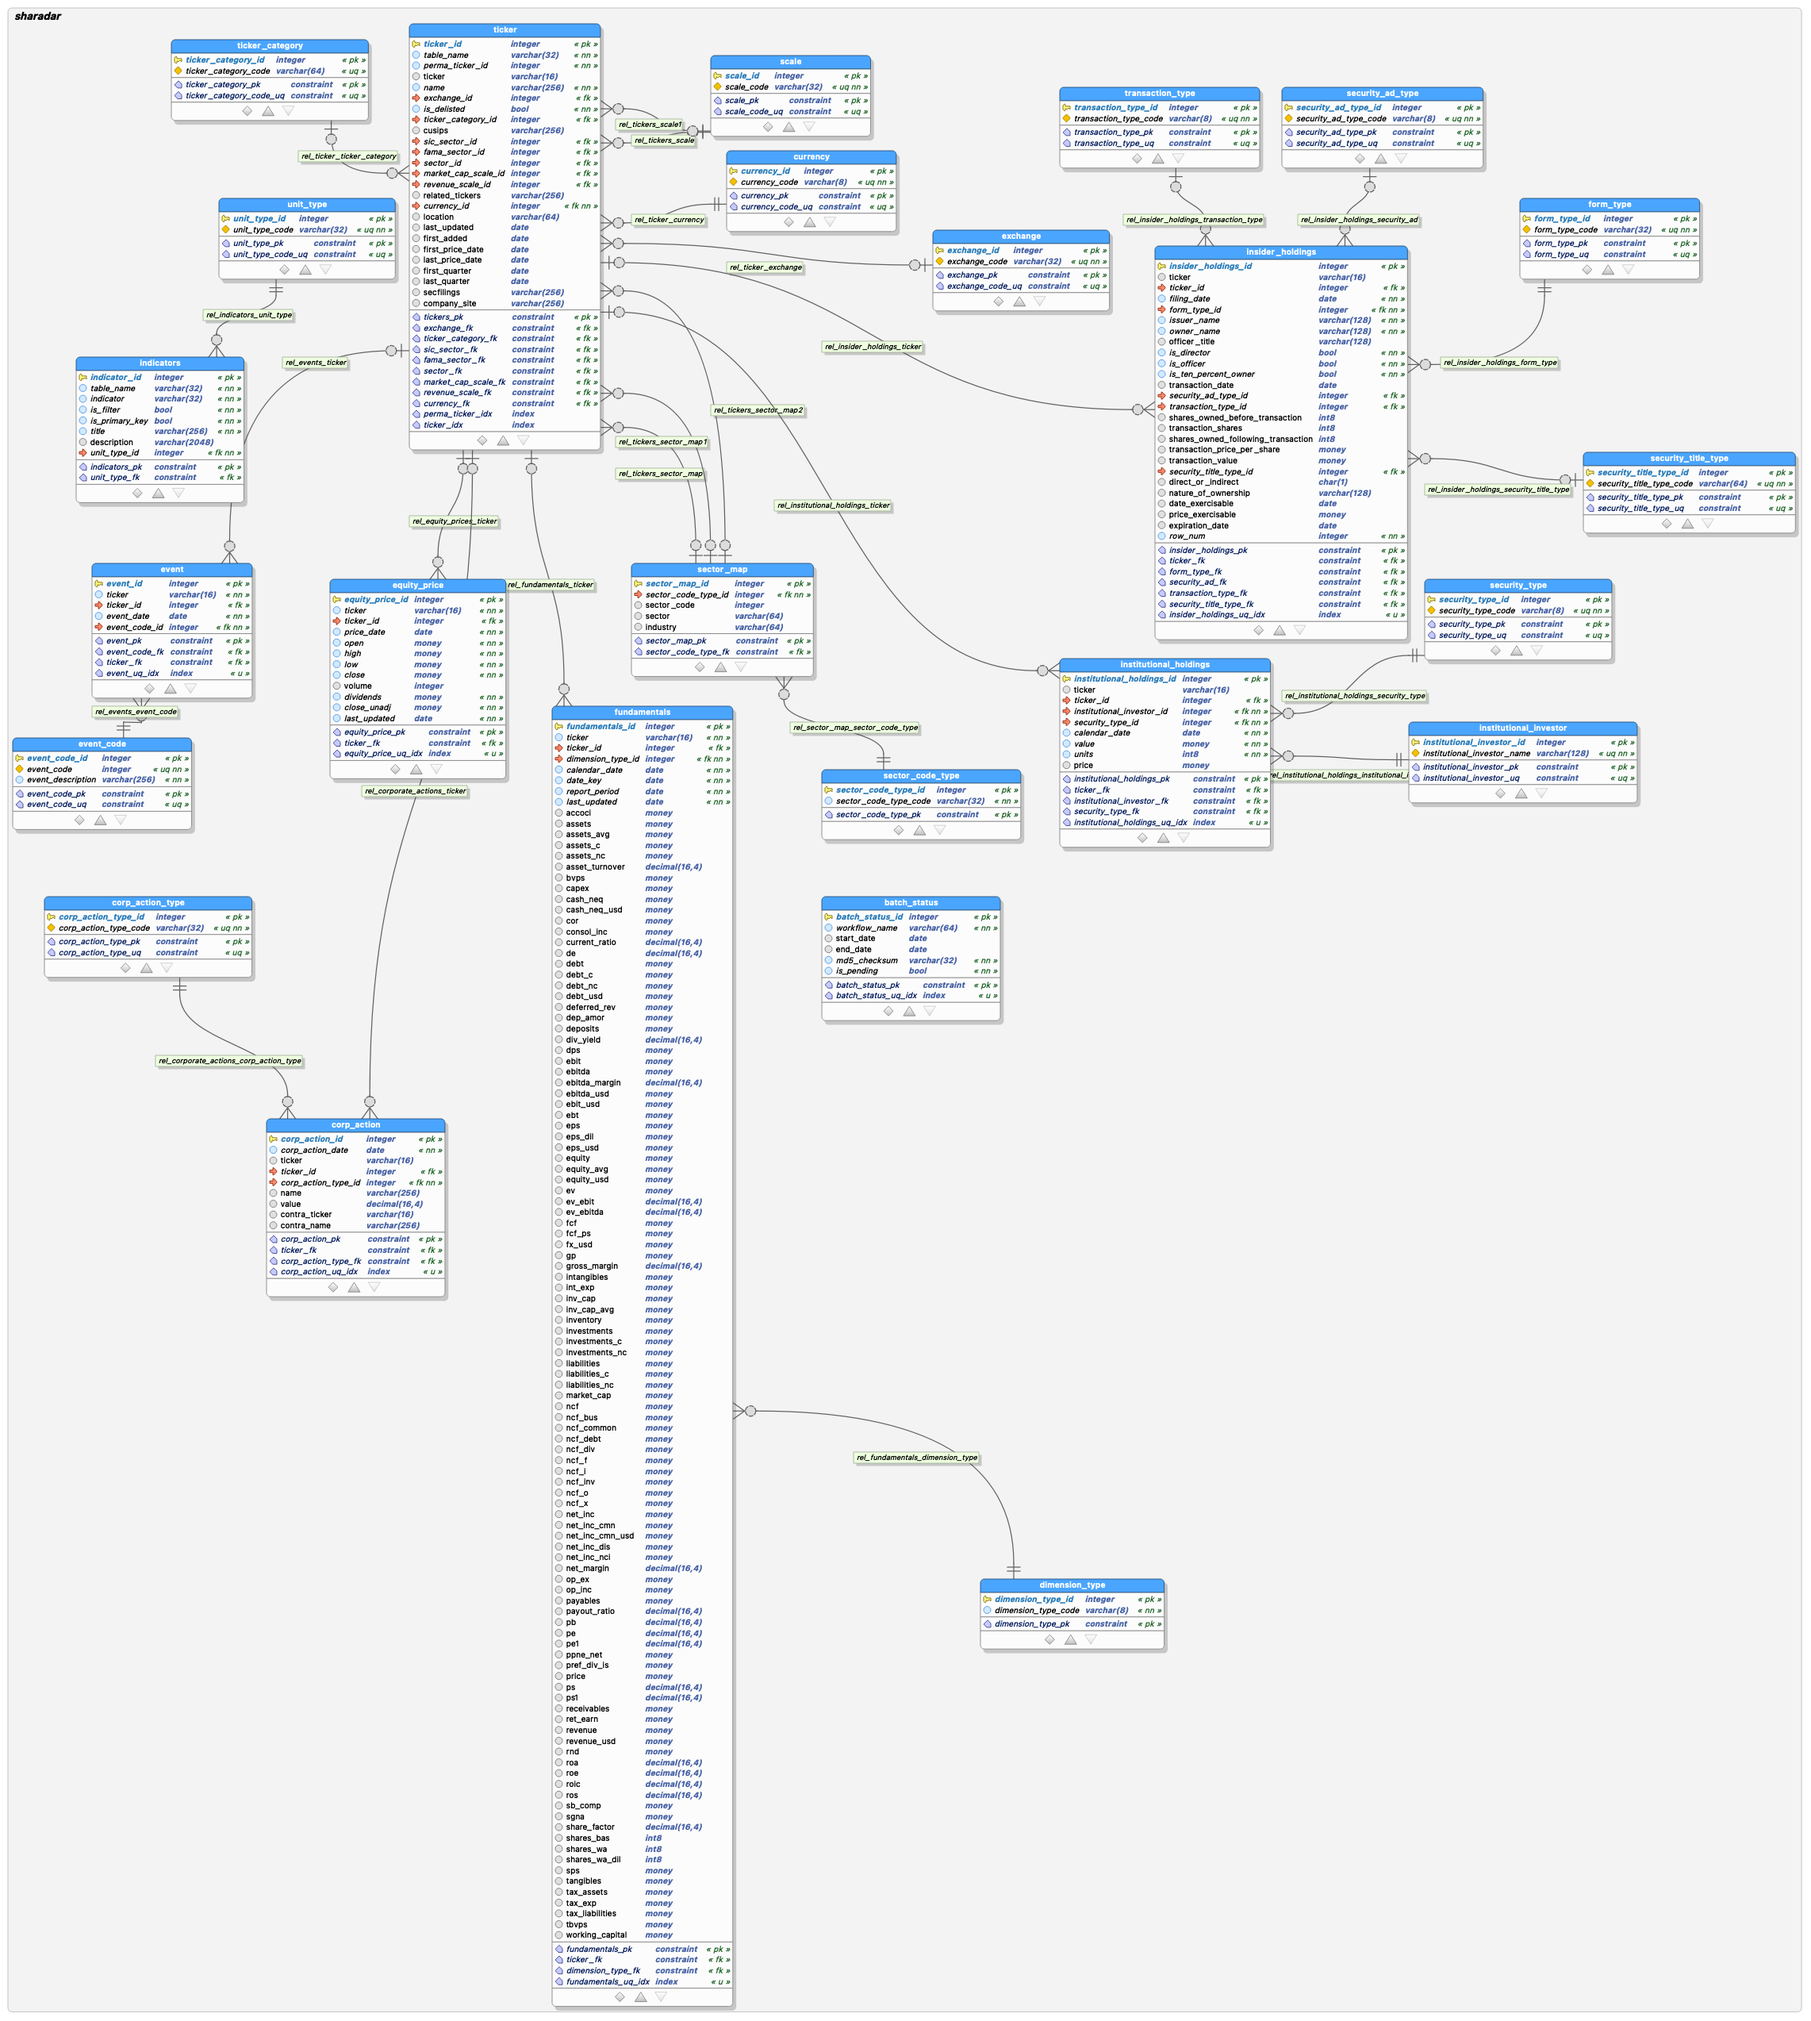
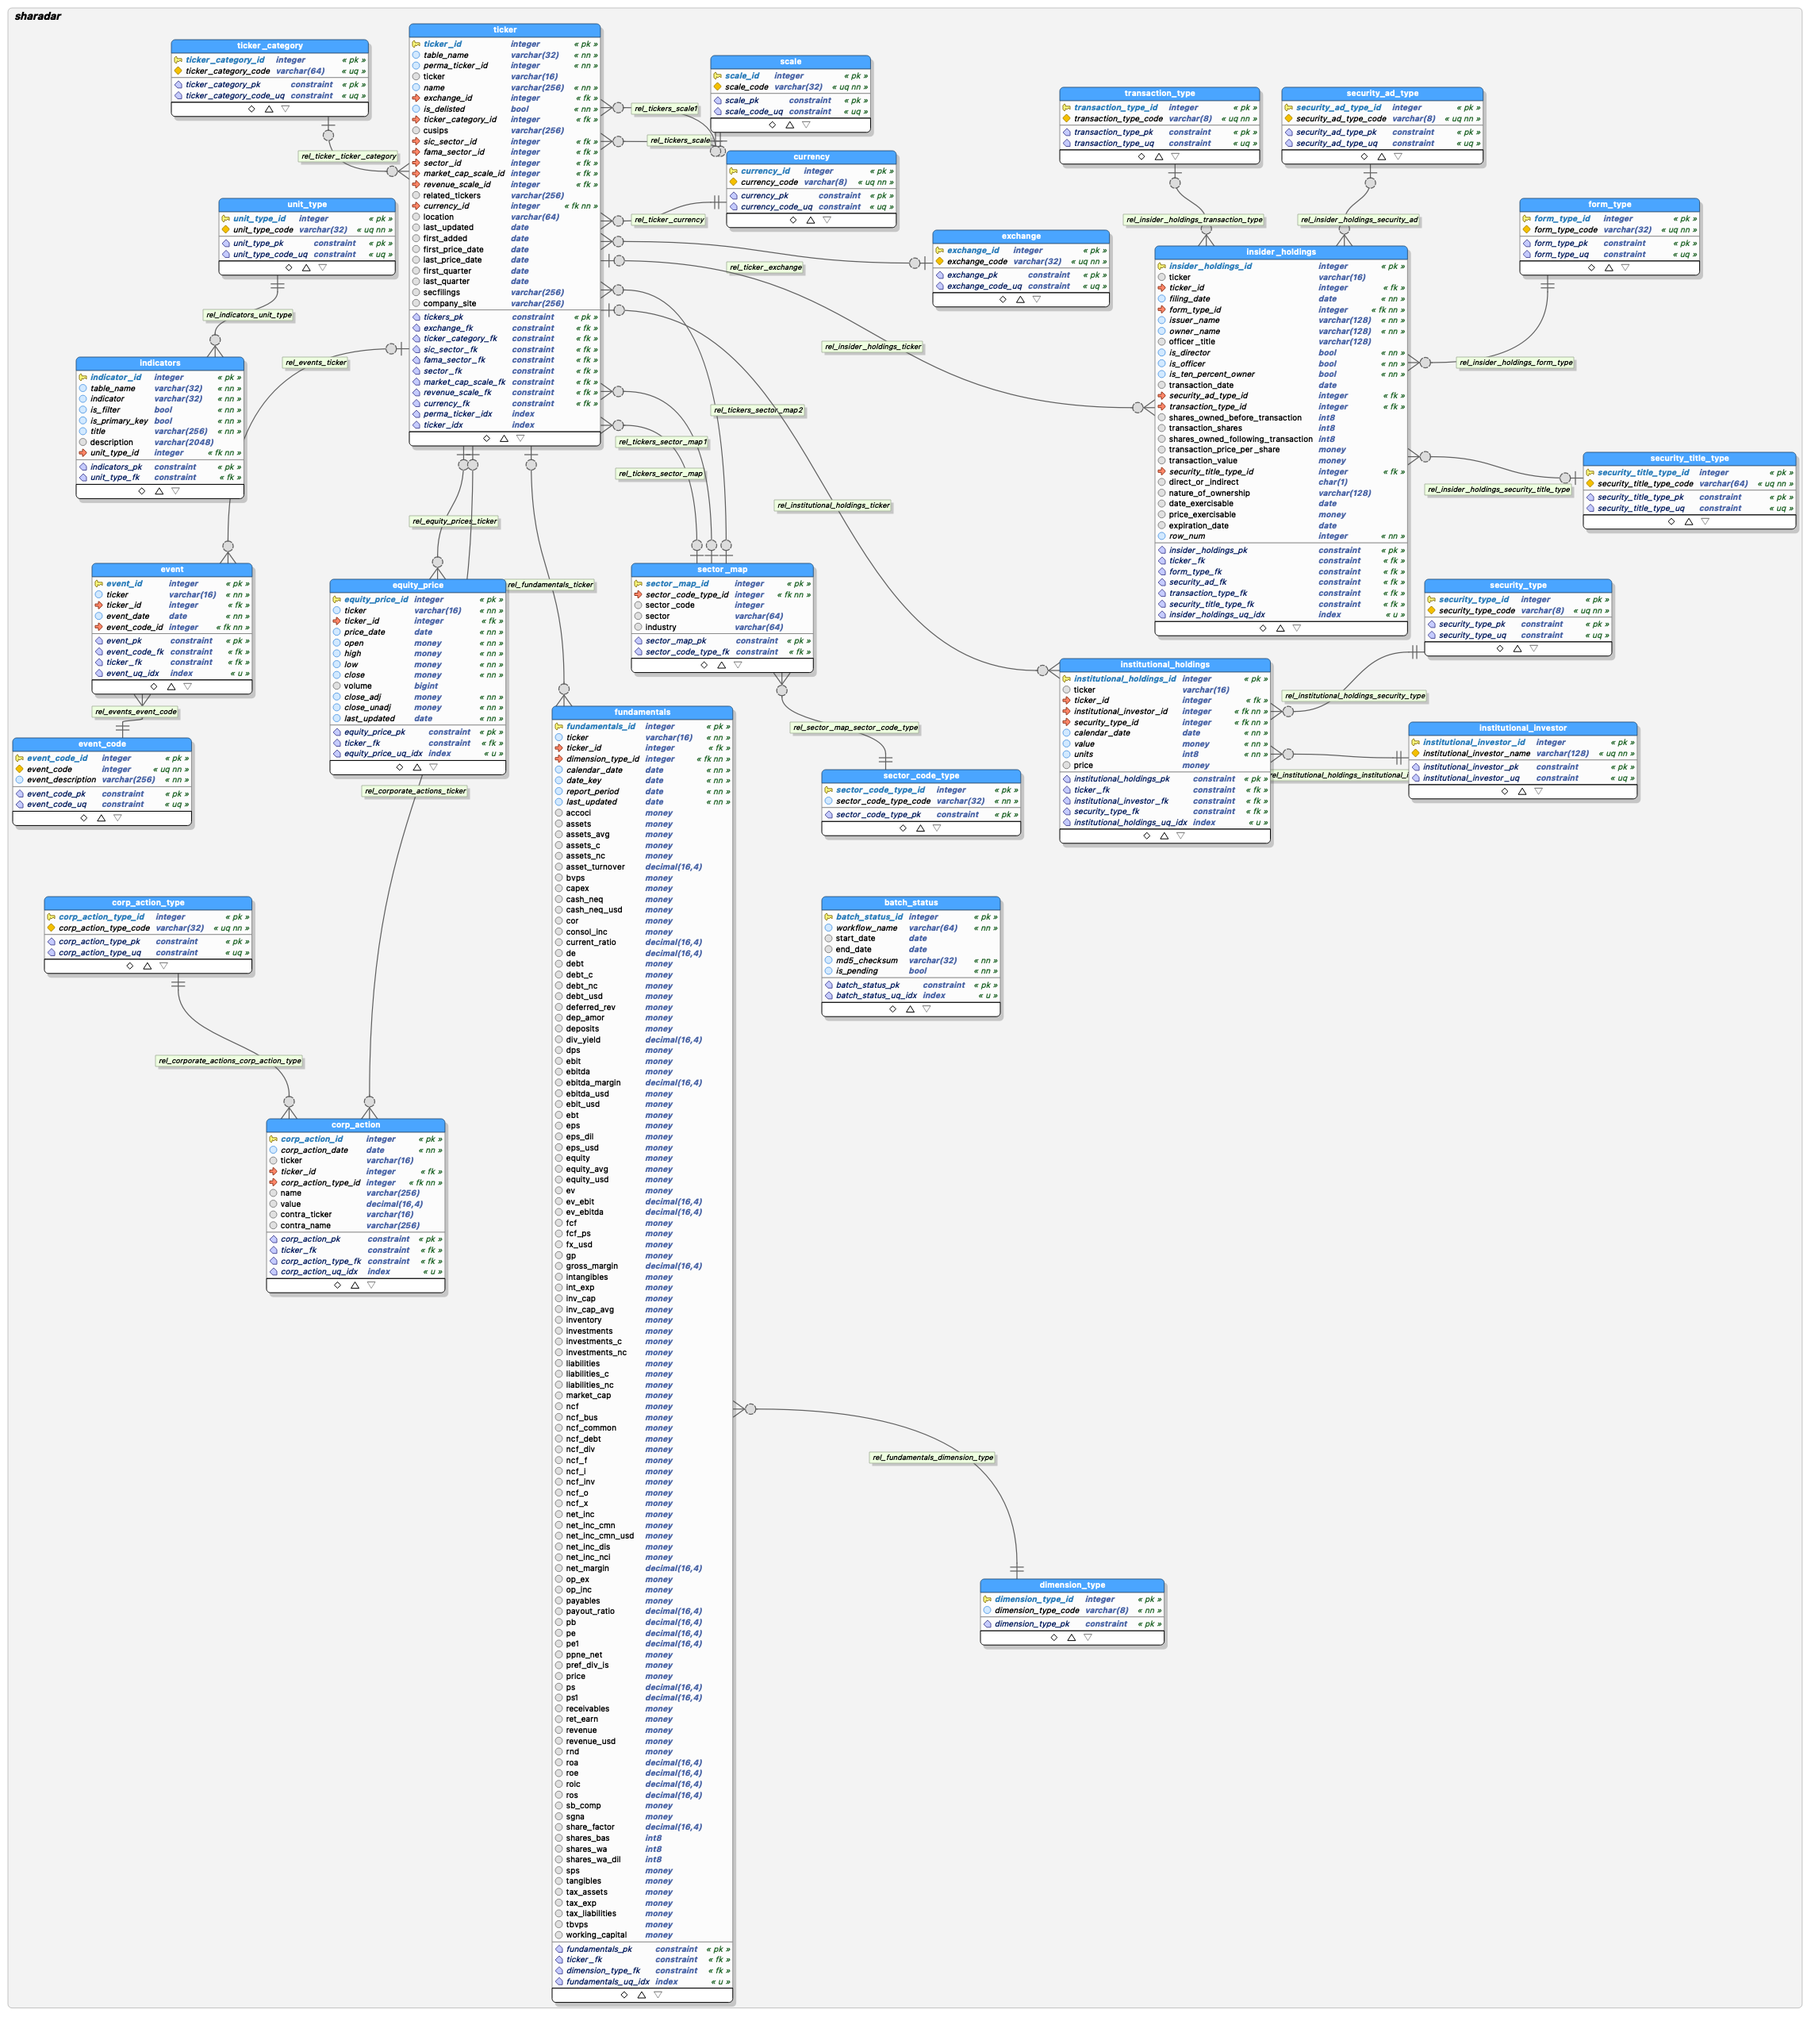
Fix bugs in Sharadar mappings and upgrade to latest Shardar schema
AB#107

diff --git a/src/serenity/data/batch/load_sharadar_prices.py b/src/serenity/data/batch/load_sharadar_prices.py
@@ -29,7 +29,7 @@ class LoadEquityPricesTask(LoadSharadarTableTask):
         low_px = clean_price(row['low'])
         close_px = clean_price(row['close'])
         volume = clean_nulls(row['volume'])
-        dividends = row['dividends']
+        close_adj = row['closeadj']
         close_unadj = row['closeunadj']
         last_updated = row['lastupdated']
 
@@ -38,7 +38,7 @@ class LoadEquityPricesTask(LoadSharadarTableTask):
         if equity_price is None:
             equity_price = EquityPrice(ticker_code=ticker_code, ticker=ticker, date=date, open_px=open_px,
                                        high_px=high_px, low_px=low_px, close_px=close_px, volume=volume,
-                                       dividends=dividends, close_unadj=close_unadj, last_updated=last_updated)
+                                       close_adj=close_adj, close_unadj=close_unadj, last_updated=last_updated)
         else:
             equity_price.ticker = ticker
             equity_price.open_px = open_px
@@ -46,7 +46,7 @@ class LoadEquityPricesTask(LoadSharadarTableTask):
             equity_price.low_px = low_px
             equity_price.close_px = close_px
             equity_price.volume = volume
-            equity_price.dividends = dividends
+            equity_price.close_adj = close_adj
             equity_price.close_unadj = close_unadj
             equity_price.last_updated = last_updated
 

diff --git a/src/serenity/data/sharadar_api.py b/src/serenity/data/sharadar_api.py
@@ -8,8 +8,7 @@ from money import Money
 
 from sqlalchemy import create_engine, TypeDecorator, Column, Integer, String, Date, Boolean
 from sqlalchemy.dialects.postgresql import MONEY
-from sqlalchemy.ext.declarative import declarative_base
-from sqlalchemy.orm import sessionmaker, Session
+from sqlalchemy.orm import declarative_base, sessionmaker, Session
 
 Base = declarative_base()
 
@@ -18,9 +17,11 @@ def create_sharadar_session(hostname: str = os.getenv('TIMESCALEDB_NODEPORT_SERV
                             port: int = os.getenv('TIMESCALEDB_NODEPORT_SERVICE_PORT', '5432'),
                             username: str = os.getenv('POSTGRES_SHARADAR_USER', 'sharadar'),
                             password: str = os.getenv('POSTGRES_SHARADAR_PASSWORD', None)) -> Session:
-    engine = create_engine(f'postgresql://{username}:{password}@{hostname}:{port}/')
+    engine = create_engine(f'postgresql://{username}:{password}@{hostname}:{port}/sharadar')
     session = sessionmaker(bind=engine)
-    return session()
+    sess_instance = session()
+    sess_instance.execute("SET search_path TO sharadar")
+    return sess_instance
 
 
 def init_quandl(quandl_api_key: str = os.getenv('QUANDL_API_KEY')):

diff --git a/src/serenity/data/sharadar_holdings.py b/src/serenity/data/sharadar_holdings.py
@@ -149,7 +149,7 @@ class InstitutionalHoldings(Base):
     institutional_holdings_id = Column(Integer, primary_key=True)
     ticker_code = Column(String(16), name='ticker')
     ticker_id = Column(Integer, ForeignKey('ticker.ticker_id'))
-    ticker = relationship('serenity.equity.sharadar_refdata.Ticker', lazy='joined')
+    ticker = relationship('Ticker', lazy='joined')
     institutional_investor_id = Column(Integer, ForeignKey('institutional_investor.institutional_investor_id'))
     investor = relationship('InstitutionalInvestor', lazy='joined')
     security_type_id = Column(Integer, ForeignKey('security_type.security_type_id'))
@@ -175,7 +175,7 @@ class InsiderHoldings(Base):
     insider_holdings_id = Column(Integer, primary_key=True)
     ticker_code = Column(String(16), name='ticker')
     ticker_id = Column(Integer, ForeignKey('ticker.ticker_id'))
-    ticker = relationship('serenity.equity.sharadar_refdata.Ticker', lazy='joined')
+    ticker = relationship('Ticker', lazy='joined')
     filing_date = Column(Date)
     form_type_id = Column(Integer, ForeignKey('form_type.form_type_id'))
     form_type = relationship('FormType', lazy='joined')

diff --git a/src/serenity/data/sharadar_prices.py b/src/serenity/data/sharadar_prices.py
@@ -14,14 +14,14 @@ class EquityPrice(Base):
     equity_price_id = Column(Integer, primary_key=True)
     ticker_code = Column(String(16), name='ticker')
     ticker_id = Column(Integer, ForeignKey('ticker.ticker_id'))
-    ticker = relationship('serenity.equity.sharadar_refdata.Ticker', lazy='joined')
+    ticker = relationship('Ticker', lazy='joined')
     date = Column(Date, name='price_date')
     open_px = Column(USD, name='open')
     high_px = Column(USD, name='high')
     low_px = Column(USD, name='low')
     close_px = Column(USD, name='close')
     volume = Column(Integer)
-    dividends = Column(USD)
+    close_adj = Column(USD)
     close_unadj = Column(USD)
     last_updated = Column(Date)
 

diff --git a/src/serenity/data/sharadar_fundamentals.py b/src/serenity/data/sharadar_fundamentals.py
@@ -32,7 +32,7 @@ class Fundamentals(Base):
     fundamentals_id = Column(Integer, primary_key=True)
     ticker_code = Column(String(16), name='ticker')
     ticker_id = Column(Integer, ForeignKey('ticker.ticker_id'))
-    ticker = relationship('serenity.equity.sharadar_refdata.Ticker', lazy='joined')
+    ticker = relationship('Ticker', lazy='joined')
     dimension_type_id = Column(Integer, ForeignKey('dimension_type.dimension_type_id'))
     dimension_type = relationship('DimensionType')
     calendar_date = Column(Date)
